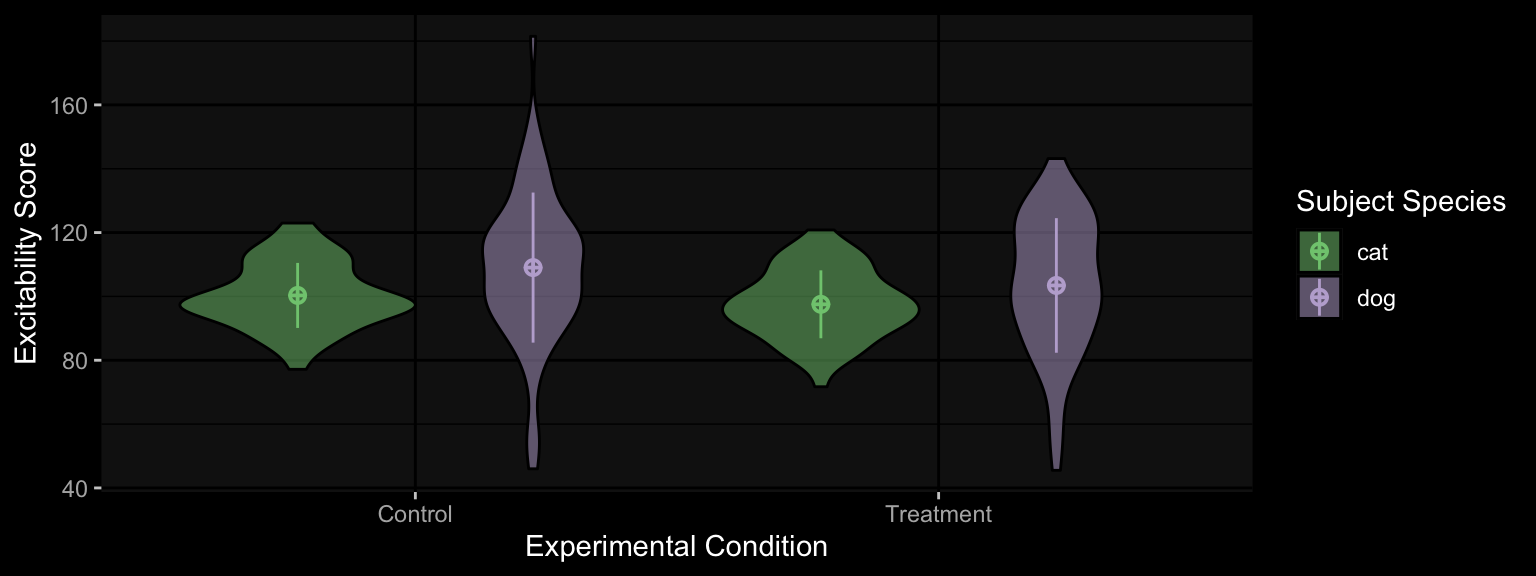
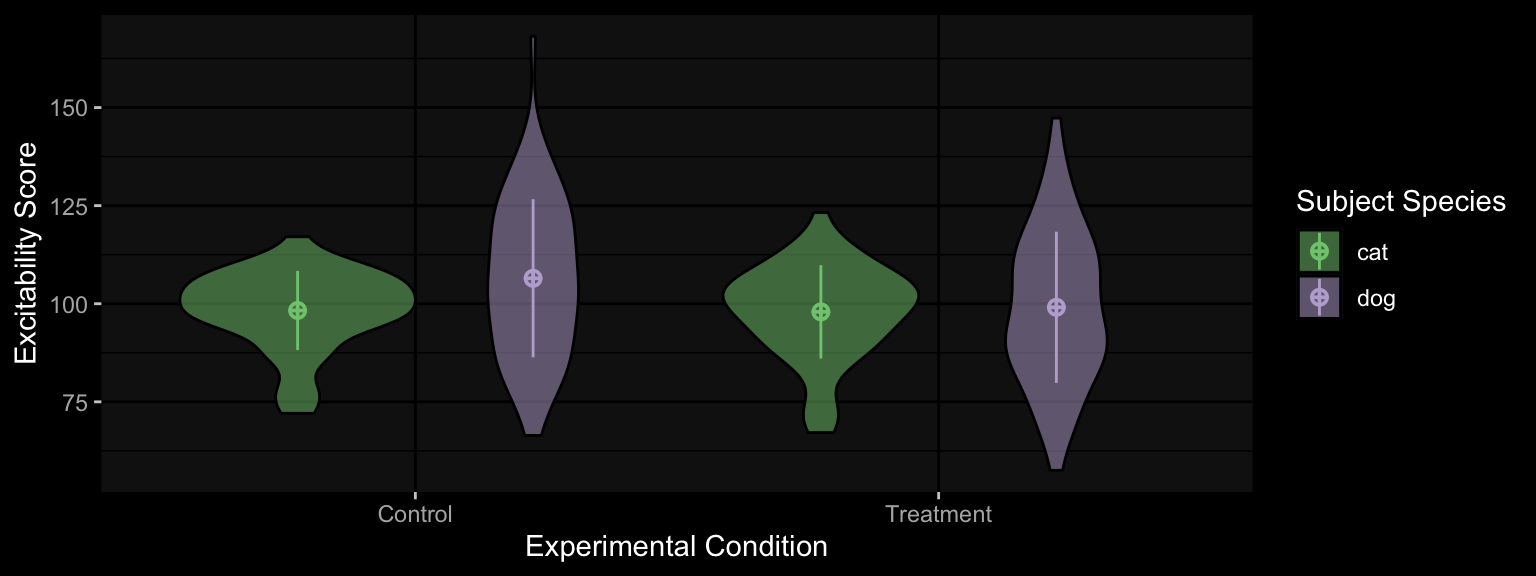
ucu

diff --git a/RIOT-code-review-2022/index.html b/RIOT-code-review-2022/index.html
@@ -481,7 +481,7 @@
 <div class="cell">
 <div class="cell-output-display">
 
-<div id="ksewfaypqk" style="overflow-x:auto;overflow-y:auto;width:auto;height:auto;">
+<div id="eamrsbwdjr" style="overflow-x:auto;overflow-y:auto;width:auto;height:auto;">
 <style>@import url("https://fonts.googleapis.com/css2?family=Source+Sans+Pro:ital,wght@0,100;0,200;0,300;0,400;0,500;0,600;0,700;0,800;0,900;1,100;1,200;1,300;1,400;1,500;1,600;1,700;1,800;1,900&display=swap");
 @import url("https://fonts.googleapis.com/css2?family=Libre+Franklin:ital,wght@0,100;0,200;0,300;0,400;0,500;0,600;0,700;0,800;0,900;1,100;1,200;1,300;1,400;1,500;1,600;1,700;1,800;1,900&display=swap");
 @import url("https://fonts.googleapis.com/css2?family=Source+Sans+Pro:ital,wght@0,100;0,200;0,300;0,400;0,500;0,600;0,700;0,800;0,900;1,100;1,200;1,300;1,400;1,500;1,600;1,700;1,800;1,900&display=swap");
@@ -489,7 +489,7 @@ html {
   font-family: -apple-system, BlinkMacSystemFont, 'Segoe UI', Roboto, Oxygen, Ubuntu, Cantarell, 'Helvetica Neue', 'Fira Sans', 'Droid Sans', Arial, sans-serif;
 }
 
-:where(#ksewfaypqk) .gt_table {
+:where(#eamrsbwdjr) .gt_table {
   display: table;
   border-collapse: collapse;
   margin-left: auto;
@@ -514,7 +514,7 @@ html {
   border-left-color: #333333;
 }
 
-:where(#ksewfaypqk) .gt_heading {
+:where(#eamrsbwdjr) .gt_heading {
   background-color: #333333;
   text-align: left;
   border-bottom-color: #333333;
@@ -526,7 +526,7 @@ html {
   border-right-color: #D3D3D3;
 }
 
-:where(#ksewfaypqk) .gt_title {
+:where(#eamrsbwdjr) .gt_title {
   color: #FFFFFF;
   font-size: 125%;
   font-weight: initial;
@@ -538,7 +538,7 @@ html {
   border-bottom-width: 0;
 }
 
-:where(#ksewfaypqk) .gt_subtitle {
+:where(#eamrsbwdjr) .gt_subtitle {
   color: #FFFFFF;
   font-size: 85%;
   font-weight: initial;
@@ -550,13 +550,13 @@ html {
   border-top-width: 0;
 }
 
-:where(#ksewfaypqk) .gt_bottom_border {
+:where(#eamrsbwdjr) .gt_bottom_border {
   border-bottom-style: none;
   border-bottom-width: 2px;
   border-bottom-color: #D3D3D3;
 }
 
-:where(#ksewfaypqk) .gt_col_headings {
+:where(#eamrsbwdjr) .gt_col_headings {
   border-top-style: none;
   border-top-width: 2px;
   border-top-color: #D3D3D3;
@@ -571,7 +571,7 @@ html {
   border-right-color: #D3D3D3;
 }
 
-:where(#ksewfaypqk) .gt_col_heading {
+:where(#eamrsbwdjr) .gt_col_heading {
   color: #FFFFFF;
   background-color: #333333;
   font-size: 100%;
@@ -591,7 +591,7 @@ html {
   overflow-x: hidden;
 }
 
-:where(#ksewfaypqk) .gt_column_spanner_outer {
+:where(#eamrsbwdjr) .gt_column_spanner_outer {
   color: #FFFFFF;
   background-color: #333333;
   font-size: 100%;
@@ -603,15 +603,15 @@ html {
   padding-right: 4px;
 }
 
-:where(#ksewfaypqk) .gt_column_spanner_outer:first-child {
+:where(#eamrsbwdjr) .gt_column_spanner_outer:first-child {
   padding-left: 0;
 }
 
-:where(#ksewfaypqk) .gt_column_spanner_outer:last-child {
+:where(#eamrsbwdjr) .gt_column_spanner_outer:last-child {
   padding-right: 0;
 }
 
-:where(#ksewfaypqk) .gt_column_spanner {
+:where(#eamrsbwdjr) .gt_column_spanner {
   border-bottom-style: solid;
   border-bottom-width: 3px;
   border-bottom-color: #FFFFFF;
@@ -623,7 +623,7 @@ html {
   width: 100%;
 }
 
-:where(#ksewfaypqk) .gt_group_heading {
+:where(#eamrsbwdjr) .gt_group_heading {
   padding-top: 8px;
   padding-bottom: 8px;
   padding-left: 5px;
@@ -648,7 +648,7 @@ html {
   vertical-align: middle;
 }
 
-:where(#ksewfaypqk) .gt_empty_group_heading {
+:where(#eamrsbwdjr) .gt_empty_group_heading {
   padding: 0.5px;
   color: #FFFFFF;
   background-color: #333333;
@@ -663,15 +663,15 @@ html {
   vertical-align: middle;
 }
 
-:where(#ksewfaypqk) .gt_from_md > :first-child {
+:where(#eamrsbwdjr) .gt_from_md > :first-child {
   margin-top: 0;
 }
 
-:where(#ksewfaypqk) .gt_from_md > :last-child {
+:where(#eamrsbwdjr) .gt_from_md > :last-child {
   margin-bottom: 0;
 }
 
-:where(#ksewfaypqk) .gt_row {
+:where(#eamrsbwdjr) .gt_row {
   padding-top: 7px;
   padding-bottom: 7px;
   padding-left: 5px;
@@ -690,7 +690,7 @@ html {
   overflow-x: hidden;
 }
 
-:where(#ksewfaypqk) .gt_stub {
+:where(#eamrsbwdjr) .gt_stub {
   color: #FFFFFF;
   background-color: #333333;
   font-size: 100%;
@@ -703,7 +703,7 @@ html {
   padding-right: 5px;
 }
 
-:where(#ksewfaypqk) .gt_stub_row_group {
+:where(#eamrsbwdjr) .gt_stub_row_group {
   color: #FFFFFF;
   background-color: #333333;
   font-size: 100%;
@@ -717,11 +717,11 @@ html {
   vertical-align: top;
 }
 
-:where(#ksewfaypqk) .gt_row_group_first td {
+:where(#eamrsbwdjr) .gt_row_group_first td {
   border-top-width: 2px;
 }
 
-:where(#ksewfaypqk) .gt_summary_row {
+:where(#eamrsbwdjr) .gt_summary_row {
   color: #FFFFFF;
   background-color: #333333;
   text-transform: inherit;
@@ -731,16 +731,16 @@ html {
   padding-right: 5px;
 }
 
-:where(#ksewfaypqk) .gt_first_summary_row {
+:where(#eamrsbwdjr) .gt_first_summary_row {
   border-top-style: solid;
   border-top-color: #D3D3D3;
 }
 
-:where(#ksewfaypqk) .gt_first_summary_row.thick {
+:where(#eamrsbwdjr) .gt_first_summary_row.thick {
   border-top-width: 2px;
 }
 
-:where(#ksewfaypqk) .gt_last_summary_row {
+:where(#eamrsbwdjr) .gt_last_summary_row {
   padding-top: 8px;
   padding-bottom: 8px;
   padding-left: 5px;
@@ -750,7 +750,7 @@ html {
   border-bottom-color: #D3D3D3;
 }
 
-:where(#ksewfaypqk) .gt_grand_summary_row {
+:where(#eamrsbwdjr) .gt_grand_summary_row {
   color: #FFFFFF;
   background-color: #333333;
   text-transform: inherit;
@@ -760,7 +760,7 @@ html {
   padding-right: 5px;
 }
 
-:where(#ksewfaypqk) .gt_first_grand_summary_row {
+:where(#eamrsbwdjr) .gt_first_grand_summary_row {
   padding-top: 8px;
   padding-bottom: 8px;
   padding-left: 5px;
@@ -770,11 +770,11 @@ html {
   border-top-color: #D3D3D3;
 }
 
-:where(#ksewfaypqk) .gt_striped {
+:where(#eamrsbwdjr) .gt_striped {
   background-color: rgba(128, 128, 128, 0.05);
 }
 
-:where(#ksewfaypqk) .gt_table_body {
+:where(#eamrsbwdjr) .gt_table_body {
   border-top-style: none;
   border-top-width: 2px;
   border-top-color: #D3D3D3;
@@ -783,7 +783,7 @@ html {
   border-bottom-color: #333333;
 }
 
-:where(#ksewfaypqk) .gt_footnotes {
+:where(#eamrsbwdjr) .gt_footnotes {
   color: #FFFFFF;
   background-color: #333333;
   border-bottom-style: none;
@@ -797,7 +797,7 @@ html {
   border-right-color: #D3D3D3;
 }
 
-:where(#ksewfaypqk) .gt_footnote {
+:where(#eamrsbwdjr) .gt_footnote {
   margin: 0px;
   font-size: 90%;
   padding-left: 4px;
@@ -806,7 +806,7 @@ html {
   padding-right: 5px;
 }
 
-:where(#ksewfaypqk) .gt_sourcenotes {
+:where(#eamrsbwdjr) .gt_sourcenotes {
   color: #FFFFFF;
   background-color: #333333;
   border-bottom-style: none;
@@ -820,7 +820,7 @@ html {
   border-right-color: #D3D3D3;
 }
 
-:where(#ksewfaypqk) .gt_sourcenote {
+:where(#eamrsbwdjr) .gt_sourcenote {
   font-size: 90%;
   padding-top: 4px;
   padding-bottom: 4px;
@@ -828,64 +828,64 @@ html {
   padding-right: 5px;
 }
 
-:where(#ksewfaypqk) .gt_left {
+:where(#eamrsbwdjr) .gt_left {
   text-align: left;
 }
 
-:where(#ksewfaypqk) .gt_center {
+:where(#eamrsbwdjr) .gt_center {
   text-align: center;
 }
 
-:where(#ksewfaypqk) .gt_right {
+:where(#eamrsbwdjr) .gt_right {
   text-align: right;
   font-variant-numeric: tabular-nums;
 }
 
-:where(#ksewfaypqk) .gt_font_normal {
+:where(#eamrsbwdjr) .gt_font_normal {
   font-weight: normal;
 }
 
-:where(#ksewfaypqk) .gt_font_bold {
+:where(#eamrsbwdjr) .gt_font_bold {
   font-weight: bold;
 }
 
-:where(#ksewfaypqk) .gt_font_italic {
+:where(#eamrsbwdjr) .gt_font_italic {
   font-style: italic;
 }
 
-:where(#ksewfaypqk) .gt_super {
+:where(#eamrsbwdjr) .gt_super {
   font-size: 65%;
 }
 
-:where(#ksewfaypqk) .gt_footnote_marks {
+:where(#eamrsbwdjr) .gt_footnote_marks {
   font-style: italic;
   font-weight: normal;
   font-size: 75%;
   vertical-align: 0.4em;
 }
 
-:where(#ksewfaypqk) .gt_asterisk {
+:where(#eamrsbwdjr) .gt_asterisk {
   font-size: 100%;
   vertical-align: 0;
 }
 
-:where(#ksewfaypqk) .gt_indent_1 {
+:where(#eamrsbwdjr) .gt_indent_1 {
   text-indent: 5px;
 }
 
-:where(#ksewfaypqk) .gt_indent_2 {
+:where(#eamrsbwdjr) .gt_indent_2 {
   text-indent: 10px;
 }
 
-:where(#ksewfaypqk) .gt_indent_3 {
+:where(#eamrsbwdjr) .gt_indent_3 {
   text-indent: 15px;
 }
 
-:where(#ksewfaypqk) .gt_indent_4 {
+:where(#eamrsbwdjr) .gt_indent_4 {
   text-indent: 20px;
 }
 
-:where(#ksewfaypqk) .gt_indent_5 {
+:where(#eamrsbwdjr) .gt_indent_5 {
   text-indent: 25px;
 }
 </style>
@@ -905,42 +905,42 @@ html {
 <td class="gt_row gt_center" style="font-family: 'Source Sans Pro'; font-weight: 400;">cat</td>
 <td class="gt_row gt_center" style="font-family: 'Source Sans Pro'; font-weight: 400;">v1</td>
 <td class="gt_row gt_center" style="font-family: 'Source Sans Pro'; font-weight: 400;">ctl</td>
-<td class="gt_row gt_right" style="font-family: 'Source Sans Pro'; font-weight: 400;">107.90562</td></tr>
+<td class="gt_row gt_right" style="font-family: 'Source Sans Pro'; font-weight: 400;">101.47213</td></tr>
     <tr><td class="gt_row gt_left" style="font-family: 'Source Sans Pro'; font-weight: 400;">S01</td>
 <td class="gt_row gt_center" style="font-family: 'Source Sans Pro'; font-weight: 400;">cat</td>
 <td class="gt_row gt_center" style="font-family: 'Source Sans Pro'; font-weight: 400;">v1</td>
 <td class="gt_row gt_center" style="font-family: 'Source Sans Pro'; font-weight: 400;">exp</td>
-<td class="gt_row gt_right" style="font-family: 'Source Sans Pro'; font-weight: 400;">106.84027</td></tr>
+<td class="gt_row gt_right" style="font-family: 'Source Sans Pro'; font-weight: 400;">88.13559</td></tr>
     <tr><td class="gt_row gt_left" style="font-family: 'Source Sans Pro'; font-weight: 400;">S01</td>
 <td class="gt_row gt_center" style="font-family: 'Source Sans Pro'; font-weight: 400;">cat</td>
 <td class="gt_row gt_center" style="font-family: 'Source Sans Pro'; font-weight: 400;">v2</td>
 <td class="gt_row gt_center" style="font-family: 'Source Sans Pro'; font-weight: 400;">ctl</td>
-<td class="gt_row gt_right" style="font-family: 'Source Sans Pro'; font-weight: 400;">110.84345</td></tr>
+<td class="gt_row gt_right" style="font-family: 'Source Sans Pro'; font-weight: 400;">107.62733</td></tr>
     <tr><td class="gt_row gt_left" style="font-family: 'Source Sans Pro'; font-weight: 400;">S01</td>
 <td class="gt_row gt_center" style="font-family: 'Source Sans Pro'; font-weight: 400;">cat</td>
 <td class="gt_row gt_center" style="font-family: 'Source Sans Pro'; font-weight: 400;">v2</td>
 <td class="gt_row gt_center" style="font-family: 'Source Sans Pro'; font-weight: 400;">exp</td>
-<td class="gt_row gt_right" style="font-family: 'Source Sans Pro'; font-weight: 400;">99.08711</td></tr>
+<td class="gt_row gt_right" style="font-family: 'Source Sans Pro'; font-weight: 400;">99.48546</td></tr>
     <tr><td class="gt_row gt_left" style="font-family: 'Source Sans Pro'; font-weight: 400;">S31</td>
 <td class="gt_row gt_center" style="font-family: 'Source Sans Pro'; font-weight: 400;">dog</td>
 <td class="gt_row gt_center" style="font-family: 'Source Sans Pro'; font-weight: 400;">v1</td>
 <td class="gt_row gt_center" style="font-family: 'Source Sans Pro'; font-weight: 400;">ctl</td>
-<td class="gt_row gt_right" style="font-family: 'Source Sans Pro'; font-weight: 400;">102.61284</td></tr>
+<td class="gt_row gt_right" style="font-family: 'Source Sans Pro'; font-weight: 400;">130.39750</td></tr>
     <tr><td class="gt_row gt_left" style="font-family: 'Source Sans Pro'; font-weight: 400;">S31</td>
 <td class="gt_row gt_center" style="font-family: 'Source Sans Pro'; font-weight: 400;">dog</td>
 <td class="gt_row gt_center" style="font-family: 'Source Sans Pro'; font-weight: 400;">v1</td>
 <td class="gt_row gt_center" style="font-family: 'Source Sans Pro'; font-weight: 400;">exp</td>
-<td class="gt_row gt_right" style="font-family: 'Source Sans Pro'; font-weight: 400;">75.66740</td></tr>
+<td class="gt_row gt_right" style="font-family: 'Source Sans Pro'; font-weight: 400;">91.72019</td></tr>
     <tr><td class="gt_row gt_left" style="font-family: 'Source Sans Pro'; font-weight: 400;">S31</td>
 <td class="gt_row gt_center" style="font-family: 'Source Sans Pro'; font-weight: 400;">dog</td>
 <td class="gt_row gt_center" style="font-family: 'Source Sans Pro'; font-weight: 400;">v2</td>
 <td class="gt_row gt_center" style="font-family: 'Source Sans Pro'; font-weight: 400;">ctl</td>
-<td class="gt_row gt_right" style="font-family: 'Source Sans Pro'; font-weight: 400;">116.92367</td></tr>
+<td class="gt_row gt_right" style="font-family: 'Source Sans Pro'; font-weight: 400;">137.33158</td></tr>
     <tr><td class="gt_row gt_left" style="font-family: 'Source Sans Pro'; font-weight: 400;">S31</td>
 <td class="gt_row gt_center" style="font-family: 'Source Sans Pro'; font-weight: 400;">dog</td>
 <td class="gt_row gt_center" style="font-family: 'Source Sans Pro'; font-weight: 400;">v2</td>
 <td class="gt_row gt_center" style="font-family: 'Source Sans Pro'; font-weight: 400;">exp</td>
-<td class="gt_row gt_right" style="font-family: 'Source Sans Pro'; font-weight: 400;">131.24988</td></tr>
+<td class="gt_row gt_right" style="font-family: 'Source Sans Pro'; font-weight: 400;">133.92931</td></tr>
   </tbody>
   
   
@@ -1415,8 +1415,9 @@ Lengths differ: 2 is not 3</code></pre>
 <section id="thank-you" class="title-slide slide level1 center">
 <h1>Thank You!</h1>
 <p><a href="https://debruine.github.io/talks/RIOT-code-review-2022/">debruine.github.io/talks/RIOT-code-review-2022/</a> (<a href="https://github.com/debruine/talks/">code</a>)</p>
-
-<img src="images/psyteachr_hex.png" class="slide-logo r-stretch"><div class="footer footer-default">
+<p><img data-src="images/ucu.png"></p>
+<p><img src="images/psyteachr_hex.png" class="slide-logo"></p>
+<div class="footer footer-default">
 
 </div>
 </section>
